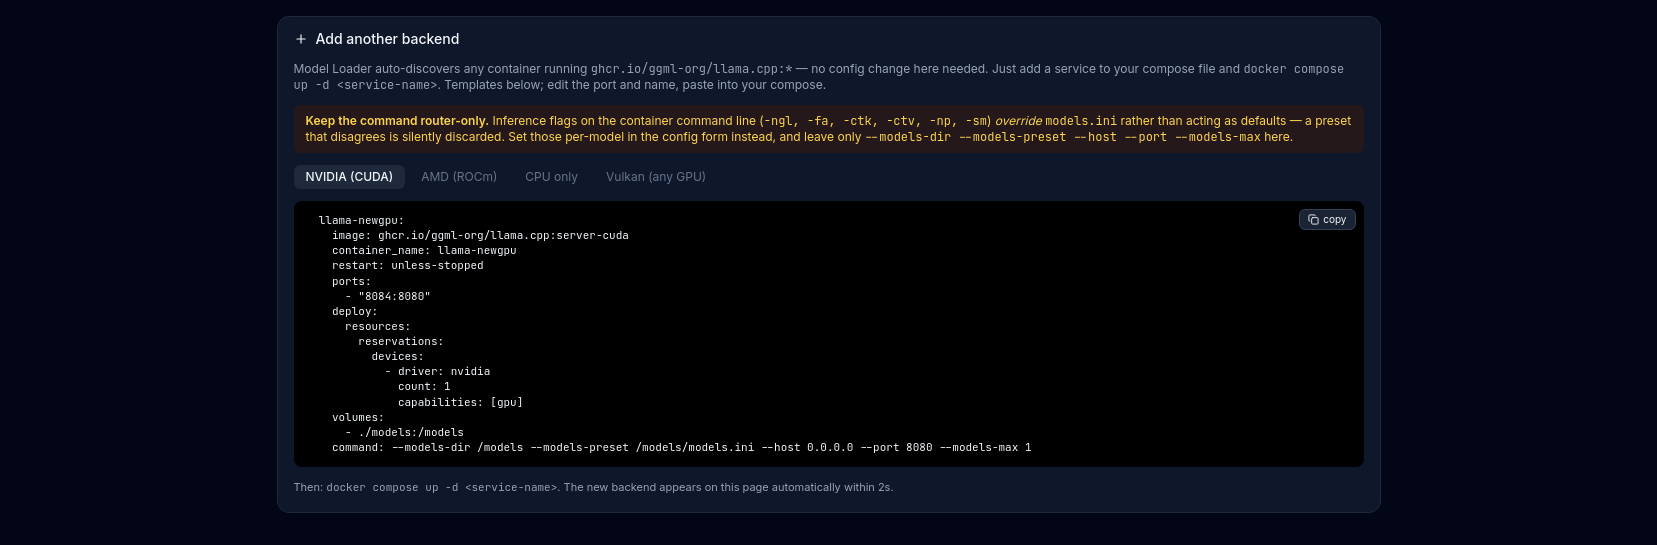
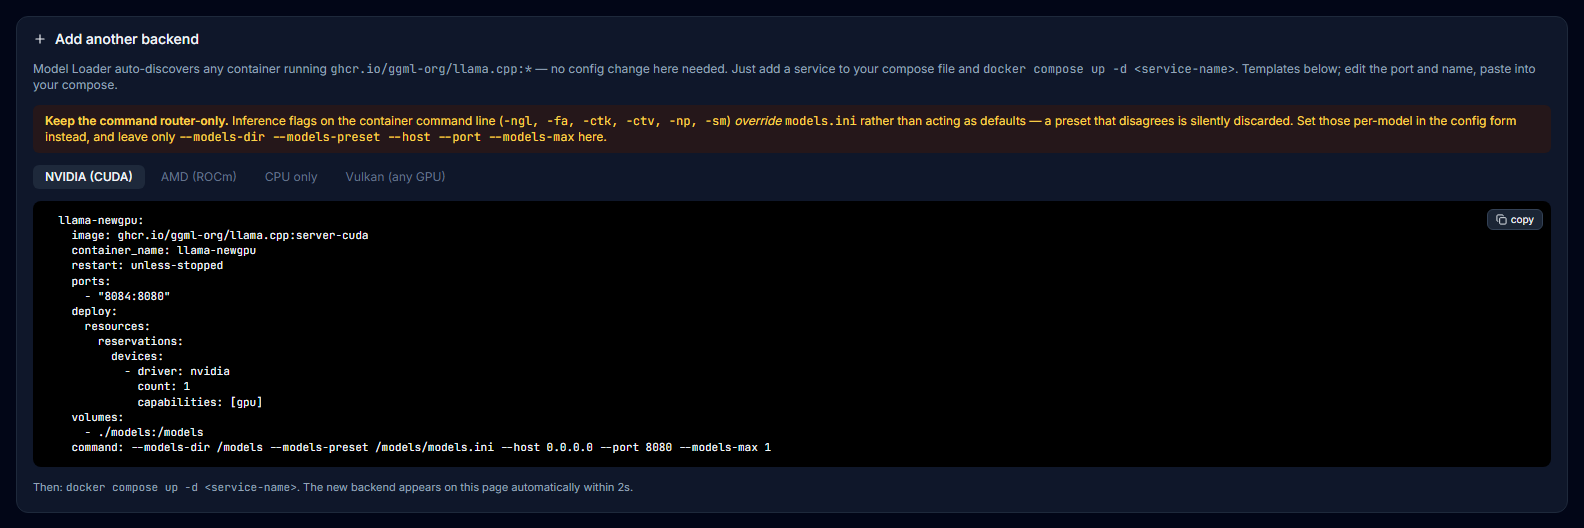
Refresh every README screenshot in dark mode, and document the router
The shots predated the Strata, Maya and Router tabs. All of them are retaken in dark mode from
the live box; the downloader shot is the previous one cropped to its job cards, since nothing
was downloading to shoot.

The router had no section at all: what it serves, how a name resolves to a backend and model,
auto-switch and its refusals, narrated switches, the request log and its retention, and how to
run its process. Download defaults (one stream, one file, SHA-256 check), the env table, the
security note, the file trees and ARCHITECTURE's download flow are brought up to date.

The Router tab's intro now lists every engine (deepseek was missing) and names the host the page
was served from instead of a hardcoded one.

diff --git a/app/templates/router.html b/app/templates/router.html
@@ -11,9 +11,10 @@
 
 <p class="mt-3 max-w-3xl text-sm text-slate-500 dark:text-slate-400">
   One endpoint for everything that needs inference here. Point a client at
-  <span class="font-mono">http://wheatley:{{ port }}/v1</span> and ask for
-  <span class="font-mono">strata</span>, <span class="font-mono">llama</span> or
-  <span class="font-mono">maya</span> — those names stay
+  <span class="font-mono">http://{{ request.url.hostname }}:{{ port }}/v1</span> and ask for
+  {% for e in engines -%}
+  <span class="font-mono">{{ e }}</span>{% if not loop.last %}{{ ' or ' if loop.revindex == 2 else ', ' }}{% endif %}
+  {%- endfor %} — those names stay
   valid when the engine changes, which the real model ids do not. Real ids still work when you
   mean one specific model.
 </p>

diff --git a/tests/test_engine_panel.py b/tests/test_engine_panel.py
@@ -24,3 +24,20 @@ def test_router_tab_still_has_every_engine(web):
     for e in ("strata", "llama", "maya"):
         assert f'aria-label="Auto-switch to {e}"' in r.text
     assert r.text.count("border-t border-slate-200 dark:border-slate-700") >= 2   # rows 2 and 3
+
+
+def test_router_intro_names_every_engine_and_this_host(web):
+    import re
+    from app import router_api
+    text = re.sub(r"\s+", " ", re.sub(r"<[^>]+>", "", web.get("/router").text))
+    names = list(router_api.ENGINES)
+    want = " ask for " + ", ".join(names[:-1]) + " or " + names[-1] + " — "
+    i = text.find(" ask for ")
+    assert want in text, text[i:i + 120]
+    assert "http://testserver:" in text and "wheatley" not in text
+
+
+def test_deepseek_row_describes_deepseek(web):
+    html = web.get("/router").text
+    row = html[html.index('aria-label="Auto-switch to maya"'):html.index('aria-label="Auto-switch to deepseek"')]
+    assert "DeepSeek runs the one model" in row and "llama.cpp loads on demand" not in row

diff --git a/README.md b/README.md
@@ -2,11 +2,11 @@
 
 A browser UI for managing llama.cpp GGUF models and containers on a personal homelab box. FastAPI + HTMX + Alpine + Tailwind, no build step, one Docker container.
 
-![The Model Loader overview page: estimated power at the wall and the hottest device in the box, each with a sparkline drawn against a configured ceiling; then the model being served — here Strata's qwen3.8-flash-next-unsloth-ud-iq4_xs, marked GENERATING — with four readouts: tokens/sec out with its own sparkline, tokens/sec in, how much of the 256k context window is in use, and this engine's expert cache hit rate at 99.8%, plus the host RAM line naming the expert arena Strata pins; then one panel per GPU breaking VRAM down against utilisation, temperature, power and fan speed; then "on the cards", listing every process holding a card with its compute occupancy and per-card VRAM, an Engine row for handing the GPUs between llama.cpp and a second engine, and eject/restore chips for GPU tenants that are not backends; then backend and storage summaries](docs/model_loader.png)
+![The Model Loader overview page in dark mode. Across the top: power at the wall (413 W of a 600 W ceiling) and the hottest device (an NVMe drive at 92 °C), each with a sparkline, over CPU, RAM, swap and disk rings. Then one panel per GPU, here two AI PRO R9700s, each with a utilisation ring, the engine holding it (strata, generating at 44 tok/s), its VRAM split by tenant, and fifteen minutes of compute per tenant against card utilisation. Then the stopped tenants with restore chips and the Engine row that hands the cards between deepseek, llama, maya and strata. Then Now Serving: Strata's Qwen3.8-Flash-Next-GSQ-RCO-abliterated-IQ3_S, reading a prompt, with tok/s out and in, 142.5k tokens of context in use and a 99.9% expert cache hit rate, the context window bar, one row per slot with its own context, and the conversation cache. At the bottom, model and disk counts and the engine update checks for Strata, Maya, llama.cpp and the DeepSeek engine](docs/model_loader.png)
 
 ## What it does
 
-- **Search + download GGUFs from Hugging Face** — parallel-range downloader (8 chunks by default), live per-chunk speed sparklines, resume-on-restart, HF token stored locally for gated repos.
+- **Search + download GGUFs from Hugging Face** — one stream per file and one file at a time by default (both raisable from the Downloads page, up to 8 byte-range streams), live per-stream speed readouts, SHA-256 checked against what Hugging Face publishes, resume-on-restart, HF token stored locally for gated repos.
 - **Manage `models.ini`** (the llama-server `--models-preset` file) with a 98-field form organized into 10 tiers (Core → Reasoning → Sampling → Server → …). Tooltips on every field. Atomic writes with 10 rolling backups.
 - **Autoconfig** — reads a GGUF's metadata + probes your live GPU VRAM, then picks `ctx-size`, `n-gpu-layers`, RoPE extension, cache quant, the prompt-cache budget and reasoning-effort flags that actually fit. Handles single-GPU, multi-GPU (`-sm layer`), hybrid attention+SSM (Qwen 3.5/3.6), sliding-window attention (Gemma), and MoE (GPT-OSS, Qwen3-Coder). For MoE models that overflow VRAM it stops guessing and hands placement to llama.cpp's own `--fit`, which is both safer and measurably faster than the split we used to compute. For a model that ships a vision projector, **vision is a switch**: turn it off and autoconfig stops reserving the projector's VRAM and shows you the context that buys.
 - **Per-slot detail when a model runs `parallel > 1`** — the headline tokens/sec is the machine's, summed over the slots that are generating, and a strip underneath gives each slot its own rate and context. They diverge more than you would expect: two slots decoding 400 tokens each in the same batch held 38.5 and 27.4 tok/s for seven seconds, because speculative decoding gets the draft head accepted far more often on code than on prose. The strip's rows shrink and wrap as the slot count grows, so eight slots still fit beside the sparkline.
@@ -28,15 +28,17 @@ A browser UI for managing llama.cpp GGUF models and containers on a personal hom
 
 ### Downloading
 
-![The Downloads page: two concurrent jobs, each split into eight byte-range chunks with an individual speed readout, an aggregate throughput sparkline and an ETA](docs/downloader.png)
+![Two jobs on the Downloads page, run with streams per file raised to 8 and two files at once: each shows its byte-range streams with their own speed readout, plus an aggregate throughput sparkline and an ETA](docs/downloader.png)
 
-Each file is fetched as eight concurrent byte-range requests, so a single slow chunk doesn't gate the whole transfer — the per-chunk readouts make that visible, and they are rarely even. Jobs survive a restart of Model Loader and resume from the last completed chunk rather than starting over.
+By default a file comes down as **one stream, one file at a time**. Two files of eight streams each is sixteen connections, which is enough to knock a home connection onto its backup line, so the polite setting is the default. The two pickers at the top of the Downloads page raise either one, up to eight byte-range streams per file, and apply to jobs already queued. With more than one stream, a single slow range doesn't gate the whole transfer; the per-stream readouts make that visible, and they are rarely even.
+
+Every file is checked against the SHA-256 Hugging Face publishes for it, and the row says `sha256 ok` when it matched; a mismatch throws the file away and fails the job. Unfinished jobs are re-queued when Model Loader restarts and resume from the bytes they already have, single-stream or parallel.
 
 The two jobs above are one action: downloading a multimodal model auto-queues the matching `mmproj` projector from the same repo into the same directory, because the model is not much use without it.
 
 ### Autoconfig, in practice
 
-![The Autoconfig panel: measured generation and prompt speed from real requests with a table comparing the configurations actually run, then a concurrent-sessions picker, a vision toggle, four priority presets (Fast, Balanced, Long context, Custom) each showing context size and KV cost, a part-to-whole meter splitting the recommended configuration's VRAM into model weights, context, overhead and compute buffers with a second bar showing how much of the model would sit in host RAM, and a per-backend table marking which context sizes fit and which do not](docs/model_performance_selector.png)
+![The Autoconfig panel for Qwen3.8-Flash-Next-UD-Q3_K_XL, an 84 GB MoE: measured generation and prompt speed from real requests and a table comparing the three configurations that actually ran; a concurrent-sessions picker; a vision toggle; a warning that the recommendation is only a preview until it is filled in and saved, listing exactly what would change; four priority presets (Fast, Balanced, Long context, Custom) with context size and KV cost; a part-to-whole bar splitting VRAM into weights, context, overhead and compute buffers, with a second bar showing 40.9 GB of experts spilling to host RAM; the per-backend table of which context sizes fit; and the recommendation itself, 2 × 256K per session on llama-9700x2](docs/model_performance_selector.png)
 
 Pick how many chats will hit the model at once, then pick a priority. Each preset shows what you are trading: context size against GPU layers against speed. The table underneath marks every context size as fitting or not on each backend, and names the cost when it doesn't — `9L on CPU` means nine layers had to move off the GPU to make that context fit.
 
@@ -50,7 +52,7 @@ The same meter is drawn live on the overview, per card, from what is actually lo
 
 ### The models.ini editor
 
-![The models.ini page: one card per section showing every set option as a chip — model path, ctx-size, ngl, cache types, flash-attn, speculative decoding settings — with Show CLI, Client config, Edit and Delete per section](docs/models_ini.png)
+![The models.ini page: llama's routing row at the top (which backend, which model the llama alias loads next, and auto-switch), then one card per section showing every set option as a chip (model path, ctx-size, ngl, cache types, parallel, reasoning, speculative decoding settings) with its shape badge and Show CLI, Client config, Edit and Delete](docs/models_ini.png)
 
 One card per section, with every option you have set shown as a chip, so the whole file is readable at a glance rather than by scrolling a text editor. **Copy CLI** renders the section as the equivalent `llama-server` command line, which is useful for reproducing a config outside Model Loader or pasting into a bug report.
 
@@ -61,7 +63,7 @@ One card per section, with every option you have set shown as a chip, so the who
 
 ### Benchmarking
 
-![The Benchmark page: stat panels for fastest generation, quickest first token and peak VRAM, above charts for generation speed and first-token latency by model](docs/benchmarks.png)
+![A benchmark run's detail page: stat panels for fastest generation (215.2 tok/s), quickest first token (39 ms) and peak VRAM, above charts of generation speed, time to first token and VRAM headroom for six models across five prompts, and the start of the per-request table](docs/benchmarks.png)
 
 Two engines, because they answer different questions and neither can answer the other's.
 
@@ -89,7 +91,7 @@ This is deliberately manual, and an automated version was built as far as the sc
 
 ### Routing models to backends
 
-![The Models directory grouped by family: headings like gemma-4-26B-A4B-it and gemma-4-E4B-it-qat, each with a model count and total size, and one line per served model carrying its MoE or dense shape, quant, placement, modality icons, state and your "good at" ratings. Under each file sits any models.ini section that serves it under another name - wheatley-voice, voice-cpu - marked "same file" instead of a size. The voice-cpu row is expanded to show its drawer: the per-backend "offered on" toggles, its own rating editor, the path on disk, a link to edit the section, and a note that it shares its weights with gemma-4-E4B-it-qat-UD-Q4_K_XL](docs/models_available.png)
+![The Models directory grouped by family, with free and used space across the top and a toolbar to filter, group, sort and narrow by state. Each heading (flint, gemma-4-26B-A4B-it, gemma-4-E4B-it-qat) carries a model count and total size, and each served model gets a line with its MoE or dense shape, quant, placement, modality and MTP icons, state and your "good at" ratings. Sections that serve a file under another name, wheatley-voice and voice-cpu, sit under it marked "same file" instead of a size. The voice-cpu row is expanded to show its drawer: its own rating editor, the path on disk with its projector and draft head, links to the file and its section, and a note that it shares its weights with gemma-4-E4B-it-qat-UD-Q4_K_XL](docs/models_available.png)
 
 Every llama.cpp backend reads the same `models.ini`, which means by default every backend offers every model — including the CPU one being asked for a 27B. The **offered on** toggles fix that per model: expand a row and click a backend to include or exclude it, and Model Loader writes the change into OpenWebUI's per-connection whitelist.
 
@@ -134,7 +136,7 @@ Each endpoint is built from the same code its page renders from, so the two cann
 
 ## Security posture
 
-**This is a personal, LAN-only tool. There is no authentication.** It mounts `/var/run/docker.sock`, which is root-equivalent on the host — anyone who can reach the port can `docker exec` into any container. Do not expose port 8090 to the internet. Do not run this on a shared machine. If you need multi-user, add a reverse-proxy with auth in front, and understand that authenticated users still get docker-socket-level power.
+**This is a personal, LAN-only tool. There is no authentication.** It mounts `/var/run/docker.sock`, which is root-equivalent on the host — anyone who can reach the port can `docker exec` into any container. Do not expose port 8090, or the router's 8086, to the internet. Do not run this on a shared machine. If you need multi-user, add a reverse-proxy with auth in front, and understand that authenticated users still get docker-socket-level power.
 
 ## Requirements
 
@@ -302,6 +304,50 @@ relationship it has with `models.ini`. Point the service at it with `env_file:` 
 from the entry point on every start: compose bakes `env_file` in at *create* time, so without the
 second half a change needs a recreate and a plain restart silently keeps the old value.
 
+### One endpoint for every engine: the router
+
+![The Router tab: the endpoint to point clients at, then one row per engine (strata, llama, maya, deepseek) saying how that engine picks its model, with its default, a backend pin where there is a choice of server, and an auto-switch toggle. Below that, which backends are reachable right now, a recording switch, a time range picker, totals for requests, failures, prompt tokens, tokens reused from cache, output tokens and average time to first token, hourly charts of tokens and requests, and the conversations table](docs/router.png)
+
+Clients bind to model ids, and on a box where engines take turns on the cards the ids are not
+stable: switching from llama.cpp to Strata changes every usable id at once. So Model Loader
+runs a second process, an OpenAI-compatible router on port `8086`, where **the engine name is a
+model id**. Ask for `strata`, `llama`, `maya` or `deepseek` and you get whatever that engine is
+serving now; a saved Open WebUI workspace model or IDE config keeps working across a switch.
+Real ids are listed and served too, for when you mean one specific model.
+
+- **What it speaks.** `/v1/chat/completions`, `/v1/completions`, `/v1/models`, and the
+  Anthropic-shaped `/v1/messages` for engines that serve it. The same paths without `/v1`, plus
+  llama.cpp's `/health` and `/props`, are there for clients that expect a bare llama-server.
+- **Which backend.** When several backends offer the same id, a CPU one always goes last and a
+  purpose-named one (voice, asr) comes after the general server, so a 27B never quietly lands
+  on CPU inference. Pin an engine to one container on the Router tab when the ranking guesses
+  wrong.
+- **Which model.** Per engine, and it means different things. llama.cpp loads on demand, so its
+  default is simply what the `llama` alias loads next. Strata cannot load on demand, so its
+  choice is one of the installed packs and applies at its next start. Maya and DeepSeek serve
+  the one model their container was set up with.
+- **Auto-switch, off by default, per engine.** With it on, asking for an engine that is not
+  holding the cards hands them over, through the same switch the Engine row uses. It refuses,
+  and says which rule stopped it, while another engine has a request in flight, while a switch
+  is already running, within a settle period after the last one (60 s by default, so two
+  clients that disagree cannot flap the box), or while a backend is starting outside Model
+  Loader. The router never starts or stops anything itself; the UI process owns lifecycle.
+- **The wait is narrated.** A switch can take a minute or more, and an empty bubble that long
+  looks like a hang. For OpenAI-shaped streams the router answers at once and streams the
+  switch's own progress ("31.4 GB still held") until the engine is up, then relays the real
+  answer in the same response. Those status lines are stripped back out of the history on the
+  next turn, so they never reach a model's chat template. Anthropic-shaped requests get a 503
+  that says why instead.
+- **Every request is recorded**, as the client saw it: engine, model, tokens in, tokens reused
+  from cache, tokens out, time to first token, total time and status, including the failures a
+  log never shows. The OpenAI protocol has no conversation id, so requests are grouped by a hash
+  of the conversation's opening, which every turn resends verbatim. Detail is kept for 14 days,
+  then hourly rollups to 90 and daily to 365, and the tab says what it is actually holding.
+  Recording can be switched off.
+
+The router has no authentication of its own, the same as the UI; keep port `8086` on the LAN.
+See [Install](#install) for running it.
+
 ## Install
 
 The fastest path — `bootstrap.sh` adds the `model-loader` service to your existing compose file and brings it up.
@@ -345,16 +391,40 @@ Paste this block into your `docker-compose.yaml`:
 
 Then `docker compose up -d --build model-loader`.
 
+**To run the router as well**, publish its port and start both processes. They share the
+container and its database, but stay separate processes so a long prefill can never stall the
+UI's polling:
+
+```yaml
+    init: true
+    ports:
+      - "8090:8090"
+      - "8086:8086"
+    entrypoint:
+      - /bin/bash
+      - -c
+      - |
+        trap 'kill -TERM $$(jobs -p) 2>/dev/null; wait' TERM INT
+        uvicorn app.main:app --host 0.0.0.0 --port 8090 &
+        uvicorn app.router_api:app --host 0.0.0.0 --port 8086 &
+        wait -n
+```
+
+`bash`, not `sh`: `wait -n` is a bash builtin. It exits as soon as either process dies, so a dead
+half restarts the container instead of leaving it up and broken. Then point clients at
+`http://<host>:8086/v1`.
+
 ## First-run walkthrough
 
 1. **Dashboard** (`/`) — you should see your llama.cpp containers listed under Backends with live GPU stats. If not, the container isn't running or its image isn't a `ghcr.io/ggml-org/llama.cpp:*` tag; use `LLAMA_CONTAINERS` env to force a whitelist.
 2. **Settings** (`/settings`) — paste a Hugging Face token here if you want to download gated models. Stored in the app's sqlite at `/data/model_loader.db`.
 3. **Search** (`/search`) — search HuggingFace, expand any repo, click Download on the GGUF file(s) you want. If the repo has a matching `*mmproj*.gguf` (vision projector), it's auto-queued into the same subdirectory.
-4. **Downloads** (`/downloads`) — live progress with per-chunk speed sparklines. Cancel, retry, or clear finished.
+4. **Downloads** (`/downloads`) — live progress, per-stream speed, SHA-256 verification. Cancel, retry, or clear finished; raise streams per file or files at once if your connection can take it.
 5. **Models** (`/models`) — everything you've downloaded. Click a model to open its detail page (metadata, quant, size, chat template, README).
 6. **Config** (`/config`) — one section per model in `models.ini`. For a new model, click **Autoconfig**; it fills in every field based on live hardware probe + GGUF metadata. Review the diff before saving: Fill also *clears* the keys Autoconfig wants unset, so a hand-tuned value inside its domain will go. Anything outside that domain is untouched.
 7. **Benchmark** (`/benchmark`) — pick a backend, some models and some prompts. A run evicts and reloads each model in turn, so expect the box to stall for the duration. Afterwards, read each response and rate the model on what you see.
-8. **Containers** (`/containers`) — restart, view logs (with grep filter), see OpenWebUI drift and one-click reconcile. If a model's load fails, the card names it and **Diagnose** reads that model's log and names the likely cause with a fix.
+8. **Router** (`/router`): if you run the router, point clients at `http://<host>:8086/v1` and ask for an engine name. Turn on auto-switch for the engines you want a client's model picker to be able to wake.
+9. **Containers** (`/containers`) — restart, view logs (with grep filter), see OpenWebUI drift and one-click reconcile. If a model's load fails, the card names it and **Diagnose** reads that model's log and names the likely cause with a fix.
 
 ## Configuration (environment variables)
 
@@ -367,8 +437,9 @@ All optional. Defaults in `app/config.py`.
 | `DATA_DIR` | `/data` | Sqlite state — HF token, prompts, avatar cache, download history. |
 | `LLAMA_CONTAINERS` | *(empty)* | Comma-separated whitelist. Empty = auto-discover any `ghcr.io/ggml-org/llama.cpp:*` container. |
 | `GPU_VRAM` | *(empty)* | Per-container VRAM overrides, e.g. `llama-7900xt:20,llama-5070:12`. Auto-probes via `nvidia-smi` / `rocm-smi` if unset. Useful when the reported total is wrong (some AMD stacks under-report). |
-| `MAX_CONCURRENT_DOWNLOADS` | `2` | Parallel download job cap. |
-| `BIND_PORT` | `8090` | HTTP port. |
+| `HOST_RAM_RESERVE_GB` | `32` | RAM held back for the OS and everything else before deciding whether a model fits in system memory. Raise it on a busy host. |
+| `ROUTER_PORT` | `8086` | The port the router listens on, as shown on the Router tab and used when pointing Open WebUI at it. The listen port itself is the router's `uvicorn --port`. |
+| `ROUTER_READONLY` | `false` | For a second instance against the same engines: it observes and routes but refuses every control that would start, stop or switch anything. Never set it on the instance that owns the box. |
 
 ## Multi-GPU
 
@@ -410,6 +481,9 @@ Browser (HTMX + Alpine + Tailwind CDN)
 FastAPI (app/main.py) ──── Jinja2 templates (app/templates/)
    │
    ├── app/routers/     one APIRouter module per nav section (included by main.py)
+   ├── app/router_api.py  the :8086 inference router (a second FastAPI app, same image)
+   ├── app/narrate.py     status lines streamed while a switch brings an engine up
+   ├── app/engine_registry.py  every engine declared once: readiness, parking, colours
    ├── app/web.py       shared Jinja env + toast/chip response builders
    ├── app/fit.py       shared VRAM/RAM placement math (search estimates, config)
    ├── app/services/    docker SDK, models-dir helpers, engine switching, OpenWebUI
@@ -418,7 +492,7 @@ FastAPI (app/main.py) ──── Jinja2 templates (app/templates/)
    ├── app/hw.py          background sampler (nvidia-smi / rocm-smi via docker exec)
    ├── app/hf.py          HF Hub API (search, repo tree, avatar cache)
    ├── app/gguf_meta.py   hand-rolled GGUF v3 metadata reader
-   ├── app/downloader.py  parallel-range download engine + sqlite job history
+   ├── app/downloader.py  range download engine, SHA-256 check, sqlite job history
    ├── app/ini.py         models.ini schema + parser + atomic writes
    ├── app/bench.py       benchmark harness + llama-bench driver
    ├── app/telemetry.py   per-request timings scraped from llama-server logs
@@ -428,7 +502,7 @@ FastAPI (app/main.py) ──── Jinja2 templates (app/templates/)
    └── app/migrate_layout.py  one-shot flat → per-model-subdir migration
 ```
 
-No frontend build step. No JS bundler. Everything ships from CDN or Jinja. Total footprint: ~10,000 lines of Python across 14 modules, 27 templates.
+No frontend build step. No JS bundler. Everything ships from CDN or Jinja. Total footprint: ~25,000 lines of Python across 64 modules, 49 templates.
 
 ## License
 

diff --git a/docs/ARCHITECTURE.md b/docs/ARCHITECTURE.md
@@ -16,8 +16,14 @@ Everything ships as one Docker image. Deps in `requirements.txt` are pinned. Pyt
 
 ```
 app/
-  main.py             FastAPI app factory, middleware, startup, Router-tab endpoints.
+  main.py             FastAPI app factory, middleware, startup, and the router includes.
   routers/            One APIRouter module per nav section, included by main.py.
+  router_api.py       The :8086 inference router: a second FastAPI app in the same image,
+                      run as its own uvicorn process (engine aliases, ranking, auto-switch,
+                      request log and its retention tiers).
+  narrate.py          The status lines streamed while a switch brings an engine up.
+  engine_registry.py  Every engine declared once: readiness check, timeout, parking, colour.
+  engine_controls.py  The per-engine routing row shared by the Router tab and engine pages.
   web.py              Shared Jinja env + response plumbing (toast/chip builders).
   fit.py              VRAM/RAM placement math inputs shared by search estimates and config.
   services/           Package: docker SDK seam, models-dir helpers, engine switching,
@@ -29,7 +35,8 @@ app/
   hf.py               HF Hub API client (search, tree, avatar cache).
   gguf_meta.py        Hand-rolled GGUF v3 metadata reader (no numpy).
   ini.py              models.ini schema (98 fields, 10 tiers) + parser + writer.
-  downloader.py       Parallel-range download engine with sqlite-backed job history.
+  downloader.py       Range download engine (1 stream by default, up to 8), SHA-256 check,
+                      sqlite-backed job history, resume after a restart.
   db.py               Sqlite prefs, benchmark results, badges (schema inline in init()).
   migrate_layout.py   One-shot: flat GGUF layout -> per-model-subdir + absolute paths.
   config.py           pydantic-settings for env vars.
@@ -54,9 +61,9 @@ app/
 ### On download
 
 1. `POST /download` inserts a row into `downloads` sqlite table with status=`queued`.
-2. A background worker (started at first request) picks it up, splits the file into 8 byte-range chunks, opens 8 concurrent HTTPS streams.
-3. Each chunk writes to a `.part-N` file. Progress + speed sample every 500ms into an in-memory ring buffer for the sparkline.
-4. On completion, chunks are concatenated in order, temp files removed, `status=done`.
+2. A background worker picks it up when its turn comes: one file at a time and one stream per file by default, both set on the Downloads page. With more than one stream, the file is split into that many byte ranges.
+3. A single stream writes straight to the temp file and hashes as it goes. Parallel streams each seek and write their own region of a preallocated temp, and what each range has received is kept beside it so a stopped download resumes. Progress + speed sample every 500ms into an in-memory ring buffer for the sparkline.
+4. On completion, the SHA-256 is checked against the one Hugging Face published (a mismatch discards the file and fails the job), the temp is moved into place, `status=done`.
 5. If a companion `*mmproj*.gguf` exists in the same repo, it's auto-queued into the same subdir.
 
 ### On config save
